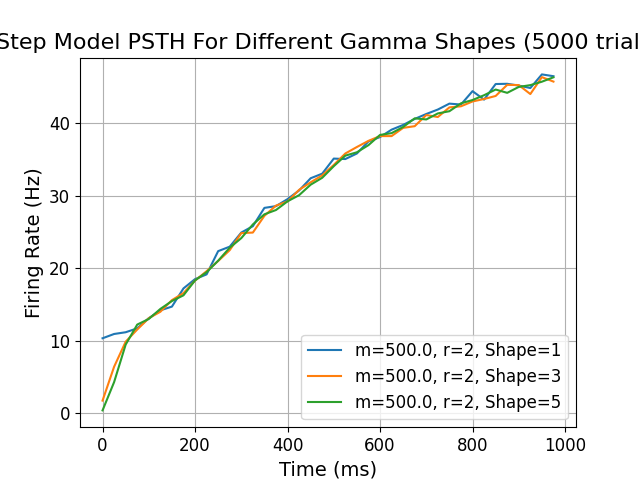
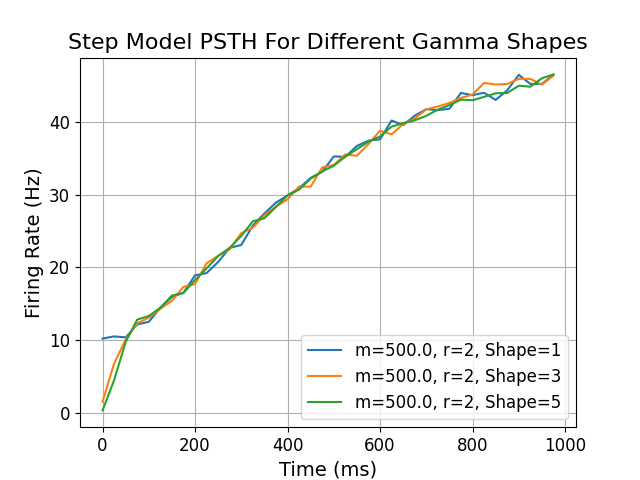
rerun 4.2 plots

Changed region(s): [[0.0625, 0.1562, 0.875, 0.5], [0.0, 0.0625, 1.0, 0.125], [0.0625, 0.5, 0.875, 0.8438]]

diff --git a/wk4_2.py b/wk4_2.py
@@ -70,7 +70,7 @@ plt.savefig(filename)
 plt.figure(fig2.number)
 plt.xlabel('Time (ms)')
 plt.ylabel('Firing Rate (Hz)')
-plt.title('Step Model PSTH For Different Gamma Shapes (5000 trials)')
+plt.title('Step Model PSTH For Different Gamma Shapes')
 plt.legend()
 plt.grid()
 filename = f"plots/task_4.2_step_psth.png"
@@ -80,12 +80,12 @@ plt.figure(fig3.number)
 plt.plot(fano_time_bins_ms, np.ones(len(fano_time_bins_ms)), 'k--', label='Poisson (Fano=1)')
 plt.xlabel('Time (ms)')
 plt.ylabel('Fano Factor')
-plt.title('Step Model Fano Factor For Different Gamma Shapes (50000 trials)')
+plt.title('Step Model Fano Factor For Different Gamma Shapes')
 plt.legend()
 plt.grid()
 filename = f"plots/task_4_2_step_fano.png"
 plt.savefig(filename)
-
+print('ramp models')
 # ramp model plots
 
 fig4 = plt.figure()
@@ -149,7 +149,7 @@ plt.savefig(filename)
 plt.figure(fig5.number)
 plt.xlabel('Time (ms)')
 plt.ylabel('Firing Rate (Hz)')
-plt.title('Ramp Model PSTH For Different Gamma Shapes (5000 trials)')
+plt.title('Ramp Model PSTH For Different Gamma Shapes')
 plt.legend()
 plt.grid()
 filename = f"plots/task_4_2_ramp_psth.png"
@@ -159,7 +159,7 @@ plt.figure(fig6.number)
 plt.plot(fano_time_bins_ms, np.ones(len(fano_time_bins_ms)), 'k--', label='Poisson (Fano=1)')
 plt.xlabel('Time (ms)')
 plt.ylabel('Fano Factor')
-plt.title('Ramp Model Fano Factor For Different Gamma Shapes (50000 trials)')
+plt.title('Ramp Model Fano Factor For Different Gamma Shapes')
 plt.legend()
 plt.grid()
 filename = f"plots/task_4_2_ramp_fano.png"
